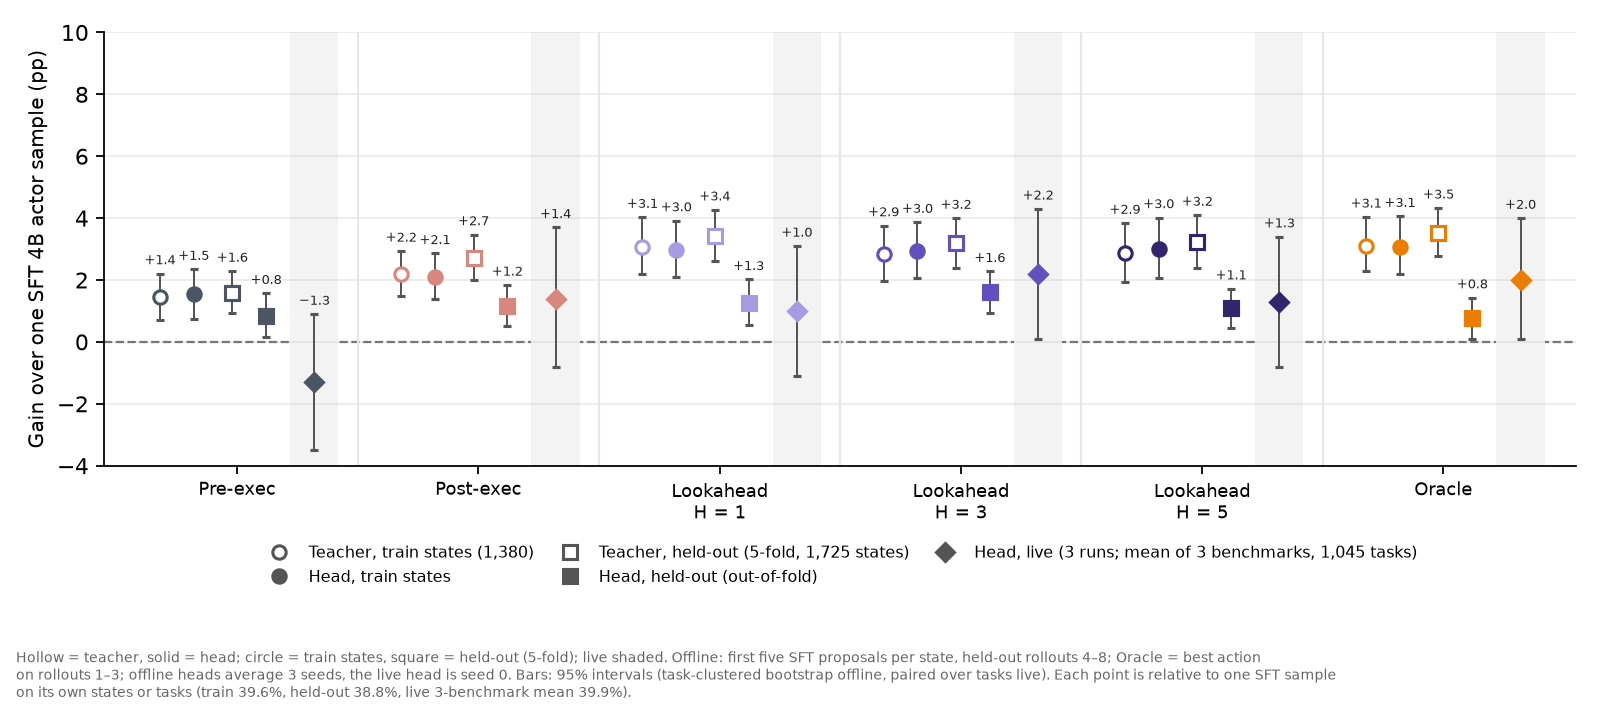
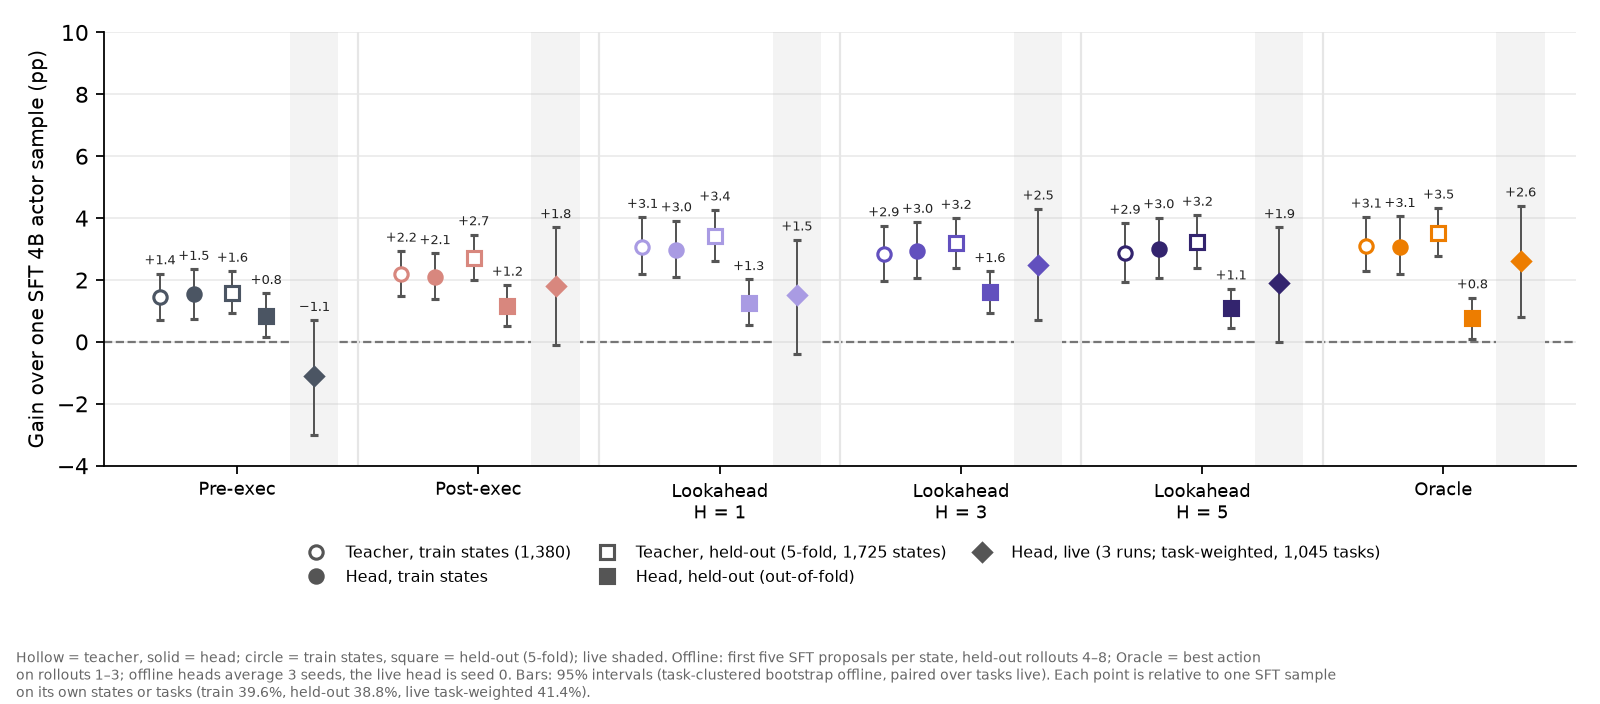
Label-source plots: live points use the task-weighted 3-run gain over SFT; weighted column in the live table

diff --git a/openwebrl/docs/arm_results/rl_integration/selection-label-stages-kfold-20261101-plot.py b/openwebrl/docs/arm_results/rl_integration/selection-label-stages-kfold-20261101-plot.py
@@ -7,9 +7,9 @@ sample of the same SFT 4B actor at three stages.
 (2) Head trained on those labels, offline: task-level 5-fold, so every state is scored by heads trained on the other four
     folds (about 1,380 states; 3 seeds averaged per state). Same states and rollouts as (1).
     (1)-(2): task-clustered bootstrap, 10,000 resamples, seed 20261101 (selection-label-kfold-20261101.json).
-(3) Head live: the seed-0 head trained on the original 1,380 training states, three-benchmark mean overall success
+(3) Head live: the seed-0 head trained on the original 1,380 training states, task-weighted overall success over the three benchmarks
     (Online-Mind2Web 300 by gpt-5.6-terra, WebVoyager 595 and DeepShop 150 by GPT-4o) minus one SFT 4B sample, paired 95%
-    bootstrap over tasks. Every head was run on the same three benchmarks in one same-day batch, 3 runs each with SFT alone (selection-label-live-3run-20261103.json, paired gain over SFT, per-task success averaged over runs).
+    bootstrap over tasks. Every head was run on the same three benchmarks in one same-day batch, 3 runs each with SFT alone (selection-label-live-3run-20261103.json "weighted": paired gain over SFT, each of the 1,045 tasks weighted equally, per-task success averaged over runs).
 Stages (1)-(2) share states; (3) uses different tasks, so compare orderings across stages, not sizes. The prior judge
 formulations (WebArbiter, WebShepherd, PRO-CUA) were scored as teachers on a different 1,010-state set and are left out;
 they remain in selection-label-stages-20261027.png.
@@ -36,12 +36,12 @@ ROWS = [  # tick label, colour, source key, live key
     ("Oracle", "#ED7D00", "outcome", "Ours outcome")]
 MARK = [(f"Teacher's pick, offline ({K['states']:,} states, 5-fold)", "o", False),
         ("Head trained on the labels, offline (out-of-fold, 3 seeds)", "s", False),
-        ("Head, live (seed 0, 3 runs; mean of 3 benchmarks, 1,045 tasks)", "D", True)]
+        ("Head, live (seed 0, 3 runs; task-weighted, 1,045 tasks)", "D", True)]
 DX = (-0.24, 0, 0.24)
 
 
 def values(src, live):
-    lv = LIVE3["paired"][LIVE3_KEY[src] + " - sft"]["mean"]
+    lv = LIVE3["weighted"][LIVE3_KEY[src]]["minus_sft"]
     return [K[src]["teacher_minus_sft"], K[src]["head_minus_sft"], lv]
 
 
@@ -67,7 +67,7 @@ handles = [Line2D([], [], marker=m, ls="", color="#555555", ms=6.5, markeredgewi
 ax.legend(handles, [l for l, _, _ in MARK], frameon=False, fontsize=7.5, loc="upper center", bbox_to_anchor=(0.45, -0.17), ncol=1)
 fig.text(0.01, 0.01, "Offline: first five SFT proposals per state, held-out rollouts 4–8 (labels used rollouts 1–3; Oracle = best "
          f"action on rollouts 1–3); one SFT sample = {K['sft_sample']:.1f}%. Live: one SFT sample = "
-         f"{LIVE3['rates']['sft']['mean_overall']:.1f}%.\nBars: 95% intervals, task-clustered bootstrap (offline) or paired over tasks "
+         f"{LIVE3['weighted']['sft']['overall']:.1f}%.\nBars: 95% intervals, task-clustered bootstrap (offline) or paired over tasks "
          "(live). Offline and live use different tasks: compare orderings, not sizes.", fontsize=6.5, color=MUTED)
 fig.tight_layout(rect=(0, 0.07, 1, 1))
 fig.savefig(HERE / "selection-label-stages-kfold-20261101.png", dpi=160); plt.close(fig)

diff --git a/openwebrl/docs/arm_results/rl_integration/selection-label-same-state-kfold-20261101-plot.py b/openwebrl/docs/arm_results/rl_integration/selection-label-same-state-kfold-20261101-plot.py
@@ -8,8 +8,8 @@ valid draws only. Teacher = the label's argmax among the five (ties averaged); h
     run; labels came from rollouts 1-3, so rollouts 4-8 are still held out). selection-label-train-states-kfold-20261101.json.
   - Held-out states: all 1,725 states (433 tasks), task-level 5-fold, each scored by heads trained on the other four folds.
     selection-label-kfold-20261101.json ("pooled").
-Live: the seed-0 head, three-benchmark mean overall success (Online-Mind2Web 300 by gpt-5.6-terra, WebVoyager 595 and
-DeepShop 150 by GPT-4o) minus SFT 4B. Every head was run on the same three benchmarks in one same-day batch, 3 runs each with SFT alone (selection-label-live-3run-20261103.json, paired gain over SFT, per-task success averaged over runs).
+Live: the seed-0 head, task-weighted overall success over the three benchmarks (Online-Mind2Web 300 by gpt-5.6-terra, WebVoyager 595 and
+DeepShop 150 by GPT-4o) minus SFT 4B. Every head was run on the same three benchmarks in one same-day batch, 3 runs each with SFT alone (selection-label-live-3run-20261103.json "weighted": paired gain over SFT, each of the 1,045 tasks weighted equally, per-task success averaged over runs).
 Each point is relative to one SFT sample on its own states/tasks; 95% intervals, task-clustered bootstrap (offline) or paired
 over tasks (live).
 """
@@ -39,11 +39,11 @@ MARK = [  # legend, marker, filled, dx
     ("Head, train states", "o", True, -0.18),
     (f"Teacher, held-out (5-fold, {KF['states']:,} states)", "s", False, -0.02),
     ("Head, held-out (out-of-fold)", "s", True, 0.12),
-    ("Head, live (3 runs; mean of 3 benchmarks, 1,045 tasks)", "D", True, 0.32)]
+    ("Head, live (3 runs; task-weighted, 1,045 tasks)", "D", True, 0.32)]
 
 
 def values(src, live):
-    lv = LIVE3["paired"][LIVE3_KEY[src] + " - sft"]["mean"]
+    lv = LIVE3["weighted"][LIVE3_KEY[src]]["minus_sft"]
     t = TR["train"][src]
     return [t["teacher_minus_sft"], t["head_minus_sft"], KF[src]["teacher_minus_sft"], KF[src]["head_minus_sft"], lv]
 
@@ -76,6 +76,6 @@ fig.text(0.01, 0.01, "Hollow = teacher, solid = head; circle = train states, squ
          "five SFT proposals per state, held-out rollouts 4–8; Oracle = best action\non rollouts 1–3; offline heads average 3 seeds, "
          "the live head is seed 0. Bars: 95% intervals (task-clustered bootstrap offline, paired over tasks live). Each point is "
          f"relative to one SFT sample\non its own states or tasks (train {TR['train']['sft_sample']:.1f}%, held-out "
-         f"{KF['sft_sample']:.1f}%, live 3-benchmark mean {LIVE3['rates']['sft']['mean_overall']:.1f}%).", fontsize=6.5, color=MUTED)
+         f"{KF['sft_sample']:.1f}%, live task-weighted {LIVE3['weighted']['sft']['overall']:.1f}%).", fontsize=6.5, color=MUTED)
 fig.tight_layout(rect=(0, 0.1, 1, 1))
 fig.savefig(HERE / "selection-label-same-state-kfold-20261101.png", dpi=160); plt.close(fig)

diff --git a/openwebrl/docs/arm_results/rl_integration/selection-label-live-3run-20261103-analysis.py b/openwebrl/docs/arm_results/rl_integration/selection-label-live-3run-20261103-analysis.py
@@ -3,7 +3,7 @@
 head-k5-20261101 run1/rerun2/rerun3; run1 of SFT/H3/H5 is 2026-11-01/02, everything else 2026-11-02/03. SFT actor, 1280x1000,
 N=5, T1.0/p0.9, 30 steps, all tasks (OM2W 300, WV 595, DS 150). Per-task success averaged over 3 runs. Valid-only = successes/valid;
 mean overall = unweighted mean of benchmark overall rates. Paired bootstrap over tasks (10,000, seed 20261029), benchmarks
-resampled independently."""
+resampled independently. Task-weighted: each of the 1,045 tasks counts once (weights 300/595/150 of 1,045)."""
 import json, sys
 from pathlib import Path
 import numpy as np
@@ -43,4 +43,20 @@ for c, r in sorted(rates.items(), key=lambda kv: -kv[1]['mean_overall']):
 paired = {f'{c} - sft': diff(data[c], data['sft']) for c in SLUG if c != 'sft'} | {f'{c} - h3': diff(data[c], data['h3']) for c in SLUG if c not in ('sft', 'h3')}
 for k, v in paired.items(): print(f'{k:<13} mean', v['mean'], '| OM2W', v['online_mind2web'], 'WV', v['webvoyager'], 'DS', v['deepshop'])
 print('per-run DS valid-only', {c: [per_run[c][r]['deepshop']['valid_only'] for r in RUNS] for c in SLUG})
-if len(sys.argv) > 1: Path(sys.argv[1]).write_text(json.dumps(dict(note=__doc__, slugs=SLUG, rates=rates, per_run=per_run, paired=paired), indent=1))
+# Task-weighted (300/595/150 of 1,045): rates pooled over all tasks; paired bootstrap of the weighted difference, fresh rng, same seed.
+W = {b: N[b] / sum(N.values()) for b in BENCH}
+wrng = np.random.default_rng(20261029)
+def wboot(a, c):
+    xs = {b: vec(a, b) - vec(c, b) for b in BENCH}
+    est = sum(W[b] * xs[b].mean() for b in BENCH)
+    bs = sum(W[b] * xs[b][wrng.integers(0, len(xs[b]), (10000, len(xs[b])))].mean(1) for b in BENCH)
+    return [round(100*est, 1), round(100*np.percentile(bs, 2.5), 1), round(100*np.percentile(bs, 97.5), 1)]
+def wrate(rs):
+    sc = sum(x[1] for d in rs for b in BENCH for x in d[b].values()); va = sum(x[0] for d in rs for b in BENCH for x in d[b].values())
+    n = sum(len(d[b]) for d in rs for b in BENCH)
+    return dict(overall=round(100*sc/n, 1), valid_only=round(100*sc/va, 1))
+weighted = {c: dict(**wrate(data[c]), minus_sft=None if c == 'sft' else wboot(data[c], data['sft']),
+                    minus_h3=None if c in ('sft', 'h3') else wboot(data[c], data['h3'])) for c in SLUG}
+for c, r in sorted(weighted.items(), key=lambda kv: -kv[1]['overall']): print('weighted', f'{c:<7}', r)
+if len(sys.argv) > 1: Path(sys.argv[1]).write_text(json.dumps(dict(note=__doc__, slugs=SLUG, rates=rates, per_run=per_run, paired=paired,
+                                                                   weights=W, weighted=weighted), indent=1))

diff --git a/openwebrl/docs/arm_results/rl_integration/selection-label-setups-kfold-20261101-plot.py b/openwebrl/docs/arm_results/rl_integration/selection-label-setups-kfold-20261101-plot.py
@@ -6,8 +6,8 @@
     other four folds' states, so every state is scored out-of-fold. Each state's first five SFT proposals (duplicates
     kept) are scored on held-out rollouts 4-8, valid draws only. Teacher = the label's argmax among the five (ties
     averaged). Task-clustered bootstrap, 10,000 resamples, seed 20261101 (selection-label-kfold-20261101.json).
-(2) Live: the seed-0 head trained on the original 1,380 training states, three-benchmark mean overall success
-    (Online-Mind2Web 300 by gpt-5.6-terra, WebVoyager 595 and DeepShop 150 by GPT-4o). Every head was run on the same three benchmarks in one same-day batch, 3 runs each with SFT alone (selection-label-live-3run-20261103.json, paired gain over SFT, per-task success averaged over runs).
+(2) Live: the seed-0 head trained on the original 1,380 training states, task-weighted overall success over the three benchmarks
+    (Online-Mind2Web 300 by gpt-5.6-terra, WebVoyager 595 and DeepShop 150 by GPT-4o). Every head was run on the same three benchmarks in one same-day batch, 3 runs each with SFT alone (selection-label-live-3run-20261103.json "weighted": paired gain over SFT, each of the 1,045 tasks weighted equally, per-task success averaged over runs).
 """
 import json
 from pathlib import Path
@@ -33,7 +33,7 @@ P = K["pooled"]
 PANELS = [
     (f"Offline · task-level 5-fold, out-of-fold heads\n{P['states']:,} states, {P['tasks']} tasks; held-out rollouts 4–8",
      "offline", P["sft_sample"]),
-    ("Live · 3 benchmarks\n1,045 tasks, mean overall success", "live", LIVE3["rates"]["sft"]["mean_overall"])]
+    ("Live · 3 benchmarks\n1,045 tasks, task-weighted overall success", "live", LIVE3["weighted"]["sft"]["overall"])]
 
 
 def point(ax, x, v, color, marker, filled):
@@ -51,7 +51,7 @@ for ax, (title, kind, base) in zip(axes, PANELS):
             if live is None:
                 ax.text(x, 0.4, "not run\nlive", ha="center", va="bottom", fontsize=6.5, color=MUTED)
                 continue
-            point(ax, x, LIVE3["paired"][LIVE3_KEY[src] + " - sft"]["mean"], color, "D", True)
+            point(ax, x, LIVE3["weighted"][LIVE3_KEY[src]]["minus_sft"], color, "D", True)
         else:
             point(ax, x - 0.17, P[src]["teacher_minus_sft"], color, "o", False)
             point(ax, x + 0.17, P[src]["head_minus_sft"], color, "s", True)

diff --git a/openwebrl/docs/ARM_FINAL_RESULTS.md b/openwebrl/docs/ARM_FINAL_RESULTS.md
@@ -773,7 +773,7 @@ Its conservative all-attempt model total was $353.582380 ($348.649556 known usag
 - **Methods.** Every selector picks one of five candidates the frozen actor samples per step; "branch" data are the SFT-actor branching states collected for this project ([collection and labels](ARM_FORMULATIONS.md#lookahead-labels-current)), "Piotr's" the GPT-5.5-labelled panels of Piotr's release. SFT rows take a single sample. Training data reads states / panels (with the actions in each panel) / labels. Piotr's panels are five sampled actor actions each (about 13 per state), duplicates included, each labelled with one GPT-5.5 pick made before execution (from the screenshot and candidates only). Branch panels are one per state holding its 2–5 distinct SFT-proposed actions, reshuffled each epoch; branch states come from the tasks of Piotr's training split.
 - <a id="final-paired-bootstrap"></a>**How the paired 95% intervals are computed** (every "pp [95% CI]" difference and every plot error bar in the selection-head results). Both runs use the same frozen task list. Each task scores 1 if its single episode is valid and judged successful, else 0 (invalid episodes count as failures), and the per-task difference is d = run − reference ∈ {−1, 0, +1}; the point estimate is the mean of d. For one benchmark, draw 10,000 resamples of its tasks with replacement, each the size of the benchmark, and take the mean of d in each. For the three-benchmark mean, resample tasks independently within each benchmark (keeping 300 / 595 / 150 tasks) and average the three resampled means with weight 1/3 each. The interval is the 2.5th to 97.5th percentile of the 10,000 resampled values. The random seed is fixed in each analysis script (e.g. NumPy `default_rng(20261018)`; the data-scaling script uses Python `random.Random(0)`). Pairing on tasks removes task-difficulty variance shared by the two runs, so these intervals are narrower than comparing two per-run intervals; they do not include training-seed variance (one seed per live head), episode-sampling variance beyond the one episode per task, or run-date drift (DeepShop).
 - **Difference columns** are row − reference on the mean overall rate, [paired 95% bootstrap](#final-paired-bootstrap) with tasks resampled within each benchmark. Also: Piotr-data head − SFT 8B +4.8 [+1.0, +8.5]. Valid-only differences (tasks valid under both) agree within 1.1 pp.
-- **From teacher to live, per label source.** For each label, three gains over one sample of the same SFT 4B actor: the teacher's own pick offline and the head trained on those labels offline, both on all 1,725 branch states with task-level 5-fold heads ([method](#final-selection-label-kfold-20261101)), and the seed-0 head live (three-benchmark mean). The live points come from one [same-day 3-run batch](#final-selection-label-live-3run-20261103) of all six heads and SFT alone, so they are directly comparable with each other but not with the older live numbers above. Offline and live use different tasks, so compare orderings, not sizes. Bars are 95% intervals (task-clustered offline, [paired](#final-paired-bootstrap) live). [Plot script](arm_results/rl_integration/selection-label-stages-kfold-20261101-plot.py)
+- **From teacher to live, per label source.** For each label, three gains over one sample of the same SFT 4B actor: the teacher's own pick offline and the head trained on those labels offline, both on all 1,725 branch states with task-level 5-fold heads ([method](#final-selection-label-kfold-20261101)), and the seed-0 head live (task-weighted overall success: each of the 1,045 tasks counts once, so WebVoyager carries 57%). The live points come from one [same-day 3-run batch](#final-selection-label-live-3run-20261103) of all six heads and SFT alone, so they are directly comparable with each other but not with the older live numbers above. Offline and live use different tasks, so compare orderings, not sizes. Bars are 95% intervals (task-clustered offline, [paired](#final-paired-bootstrap) live). [Plot script](arm_results/rl_integration/selection-label-stages-kfold-20261101-plot.py)
 
   ![Gain over one SFT 4B sample for each label source at three stages: teacher pick offline and trained head offline (5-fold, 1,725 states), and the head live](arm_results/rl_integration/selection-label-stages-kfold-20261101.png)
 
@@ -799,18 +799,18 @@ Its conservative all-attempt model total was $353.582380 ($348.649556 known usag
   - **H = 5 adds nothing over H = 3.** As teachers they are level (H = 3 − H = 5 = −0.0 [−0.5, +0.4]). As heads, H = 5 is borderline worse (H = 3 − H = 5 = +0.5 [+0.0, +1.0]). This agrees with the earlier 315-state check ([K = 5 − K = 3 −0.05 pp](ARM_FORMULATIONS.md#lookahead-v2-20261013)).
   - **H = 3 is the best head.** It beats the Oracle head (+0.8 [+0.1, +1.6]) and the pre-exec head (+0.7 [+0.0, +1.5]). Every other pair of heads overlaps zero. This matches the live ordering, where the H = 3 and Oracle heads are the two best and pre-exec the worst (right panel).
   - **Heads keep only part of the teacher's gain**, from about half (pre-exec, H = 3) to under a quarter (Oracle). The Oracle head loses the most (−2.8 pp below its teacher).
-  - **Offline gains are small and do not predict live size.** They are 1–3.5 pp here against −1.3 to +2.2 pp live, and they use different states, tasks and SFT baselines, so compare orderings, not sizes.
-  - <a id="final-selection-label-live-3run-20261103"></a><a id="final-selection-label-k5-live-20261102"></a>**Live, all label sources in one same-day batch, 3 runs each (2026-11-01 to 11-03).** Only H = 3 (+2.2 [+0.1, +4.3]) and Oracle (+2.0 [+0.1, +4.0]) beat SFT alone; post-exec, H = 5 and H = 1 gain +1.0 to +1.4 with intervals crossing zero, and pre-exec does not help (−1.3 [−3.5, +0.9]). Against the H = 3 head, only pre-exec is clearly worse (−3.5 [−5.5, −1.5]); Oracle, post-exec, H = 5 and H = 1 are within −0.2 to −1.2 pp, all intervals crossing zero. H = 5 adds nothing over H = 3 live either (−0.9 [−3.0, +1.2]). The gains come from Online-Mind2Web and WebVoyager; on DeepShop no head beats SFT. Setup: the six seed-0 heads trained on the same 1,380 states with the round-1 recipe (H = 5: fold-0 seed-0 head), SFT 4B actor, 1280×1000, N = 5, T 1.0 / top-p 0.9, 30 steps, all tasks, same judges (Online-Mind2Web gpt-5.6-terra, WebVoyager and DeepShop GPT-4o). Three runs per condition; run 1 of SFT, H = 3 and H = 5 is the 11-01/02 run, all other runs 11-02/03. Per-benchmark columns are valid-only, pooled over the three runs; differences are on mean overall with per-task success averaged over runs, [paired 95% intervals](#final-paired-bootstrap) (seed 20261029); they exclude training-seed variance. DeepShop still drifts between runs (SFT 47.0 / 45.5 / 43.9% valid-only). 125.4 H200-hours (117.8 on urgent QoS, billed 2×) plus 18.8 for the 11-01/02 run.
+  - **Offline gains are small and do not predict live size.** They are 1–3.5 pp here against −1.1 to +2.6 pp live, and they use different states, tasks and SFT baselines, so compare orderings, not sizes.
+  - <a id="final-selection-label-live-3run-20261103"></a><a id="final-selection-label-k5-live-20261102"></a>**Live, all label sources in one same-day batch, 3 runs each (2026-11-01 to 11-03).** Only H = 3 (+2.2 [+0.1, +4.3]) and Oracle (+2.0 [+0.1, +4.0]) beat SFT alone; post-exec, H = 5 and H = 1 gain +1.0 to +1.4 with intervals crossing zero, and pre-exec does not help (−1.3 [−3.5, +0.9]). Against the H = 3 head, only pre-exec is clearly worse (−3.5 [−5.5, −1.5]); Oracle, post-exec, H = 5 and H = 1 are within −0.2 to −1.2 pp, all intervals crossing zero. H = 5 adds nothing over H = 3 live either (−0.9 [−3.0, +1.2]). The gains come from Online-Mind2Web and WebVoyager; on DeepShop no head beats SFT. Weighting each task once (the plots' live points) down-weights DeepShop and gives the same order with slightly larger, tighter gains: Oracle +2.6 [+0.8, +4.4], H = 3 +2.5 [+0.7, +4.3], H = 5 +1.9 [+0.0, +3.7], post-exec +1.8 [−0.1, +3.7], H = 1 +1.5 [−0.4, +3.3], pre-exec −1.1 [−3.0, +0.7]. Setup: the six seed-0 heads trained on the same 1,380 states with the round-1 recipe (H = 5: fold-0 seed-0 head), SFT 4B actor, 1280×1000, N = 5, T 1.0 / top-p 0.9, 30 steps, all tasks, same judges (Online-Mind2Web gpt-5.6-terra, WebVoyager and DeepShop GPT-4o). Three runs per condition; run 1 of SFT, H = 3 and H = 5 is the 11-01/02 run, all other runs 11-02/03. Per-benchmark columns are valid-only, pooled over the three runs; differences are on mean overall with per-task success averaged over runs, [paired 95% intervals](#final-paired-bootstrap) (seed 20261029); they exclude training-seed variance. DeepShop still drifts between runs (SFT 47.0 / 45.5 / 43.9% valid-only). 125.4 H200-hours (117.8 on urgent QoS, billed 2×) plus 18.8 for the 11-01/02 run.
 
-    | Condition | Online-Mind2Web<br>valid-only | WebVoyager<br>valid-only | DeepShop<br>valid-only | Mean<br>overall | Mean<br>valid-only | − SFT 4B, pp<br>[95% CI] | − H = 3 head, pp<br>[95% CI] |
-    | --- | ---: | ---: | ---: | ---: | ---: | ---: | ---: |
-    | Head, H = 3 labels | 37.9% | 51.0% | 44.3% | **42.1%** | **44.4%** | **+2.2 [+0.1, +4.3]** | — |
-    | Head, Oracle labels | 35.6% | **51.8%** | 45.1% | 41.9% | 44.2% | +2.0 [+0.1, +4.0] | −0.2 [−2.3, +2.0] |
-    | Head, post-exec labels | 36.3% | 51.1% | 44.7% | 41.3% | 44.0% | +1.4 [−0.8, +3.7] | −0.8 [−3.0, +1.4] |
-    | Head, H = 5 labels | **38.1%** | 50.6% | 42.9% | 41.3% | 43.9% | +1.3 [−0.8, +3.4] | −0.9 [−3.0, +1.2] |
-    | Head, H = 1 labels | 35.2% | 50.8% | 44.7% | 40.9% | 43.6% | +1.0 [−1.1, +3.1] | −1.2 [−3.4, +0.9] |
-    | *SFT 4B, 1 sample* | 32.5% | 48.0% | **45.5%** | 39.9% | 42.0% | — | — |
-    | Head, pre-exec labels | 31.9% | 48.1% | 43.0% | 38.6% | 41.0% | −1.3 [−3.5, +0.9] | −3.5 [−5.5, −1.5] |
+    | Condition | Online-Mind2Web<br>valid-only | WebVoyager<br>valid-only | DeepShop<br>valid-only | Mean<br>overall | Mean<br>valid-only | − SFT 4B, pp<br>[95% CI] | − H = 3 head, pp<br>[95% CI] | Task-weighted<br>− SFT 4B, pp [95% CI] |
+    | --- | ---: | ---: | ---: | ---: | ---: | ---: | ---: | ---: |
+    | Head, H = 3 labels | 37.9% | 51.0% | 44.3% | **42.1%** | **44.4%** | **+2.2 [+0.1, +4.3]** | — | +2.5 [+0.7, +4.3] |
+    | Head, Oracle labels | 35.6% | **51.8%** | 45.1% | 41.9% | 44.2% | +2.0 [+0.1, +4.0] | −0.2 [−2.3, +2.0] | **+2.6 [+0.8, +4.4]** |
+    | Head, post-exec labels | 36.3% | 51.1% | 44.7% | 41.3% | 44.0% | +1.4 [−0.8, +3.7] | −0.8 [−3.0, +1.4] | +1.8 [−0.1, +3.7] |
+    | Head, H = 5 labels | **38.1%** | 50.6% | 42.9% | 41.3% | 43.9% | +1.3 [−0.8, +3.4] | −0.9 [−3.0, +1.2] | +1.9 [+0.0, +3.7] |
+    | Head, H = 1 labels | 35.2% | 50.8% | 44.7% | 40.9% | 43.6% | +1.0 [−1.1, +3.1] | −1.2 [−3.4, +0.9] | +1.5 [−0.4, +3.3] |
+    | *SFT 4B, 1 sample* | 32.5% | 48.0% | **45.5%** | 39.9% | 42.0% | — | — | — |
+    | Head, pre-exec labels | 31.9% | 48.1% | 43.0% | 38.6% | 41.0% | −1.3 [−3.5, +0.9] | −3.5 [−5.5, −1.5] | −1.1 [−3.0, +0.7] |
 
     [Data, per-run rates and per-benchmark contrasts](arm_results/rl_integration/selection-label-live-3run-20261103.json) · [analysis script](arm_results/rl_integration/selection-label-live-3run-20261103-analysis.py) · earlier one-run H = 5 check (11-01/02, part of this batch): [data](arm_results/rl_integration/selection-label-k5-live-20261102.json) · [script](arm_results/rl_integration/selection-label-k5-live-20261102-analysis.py)
 
